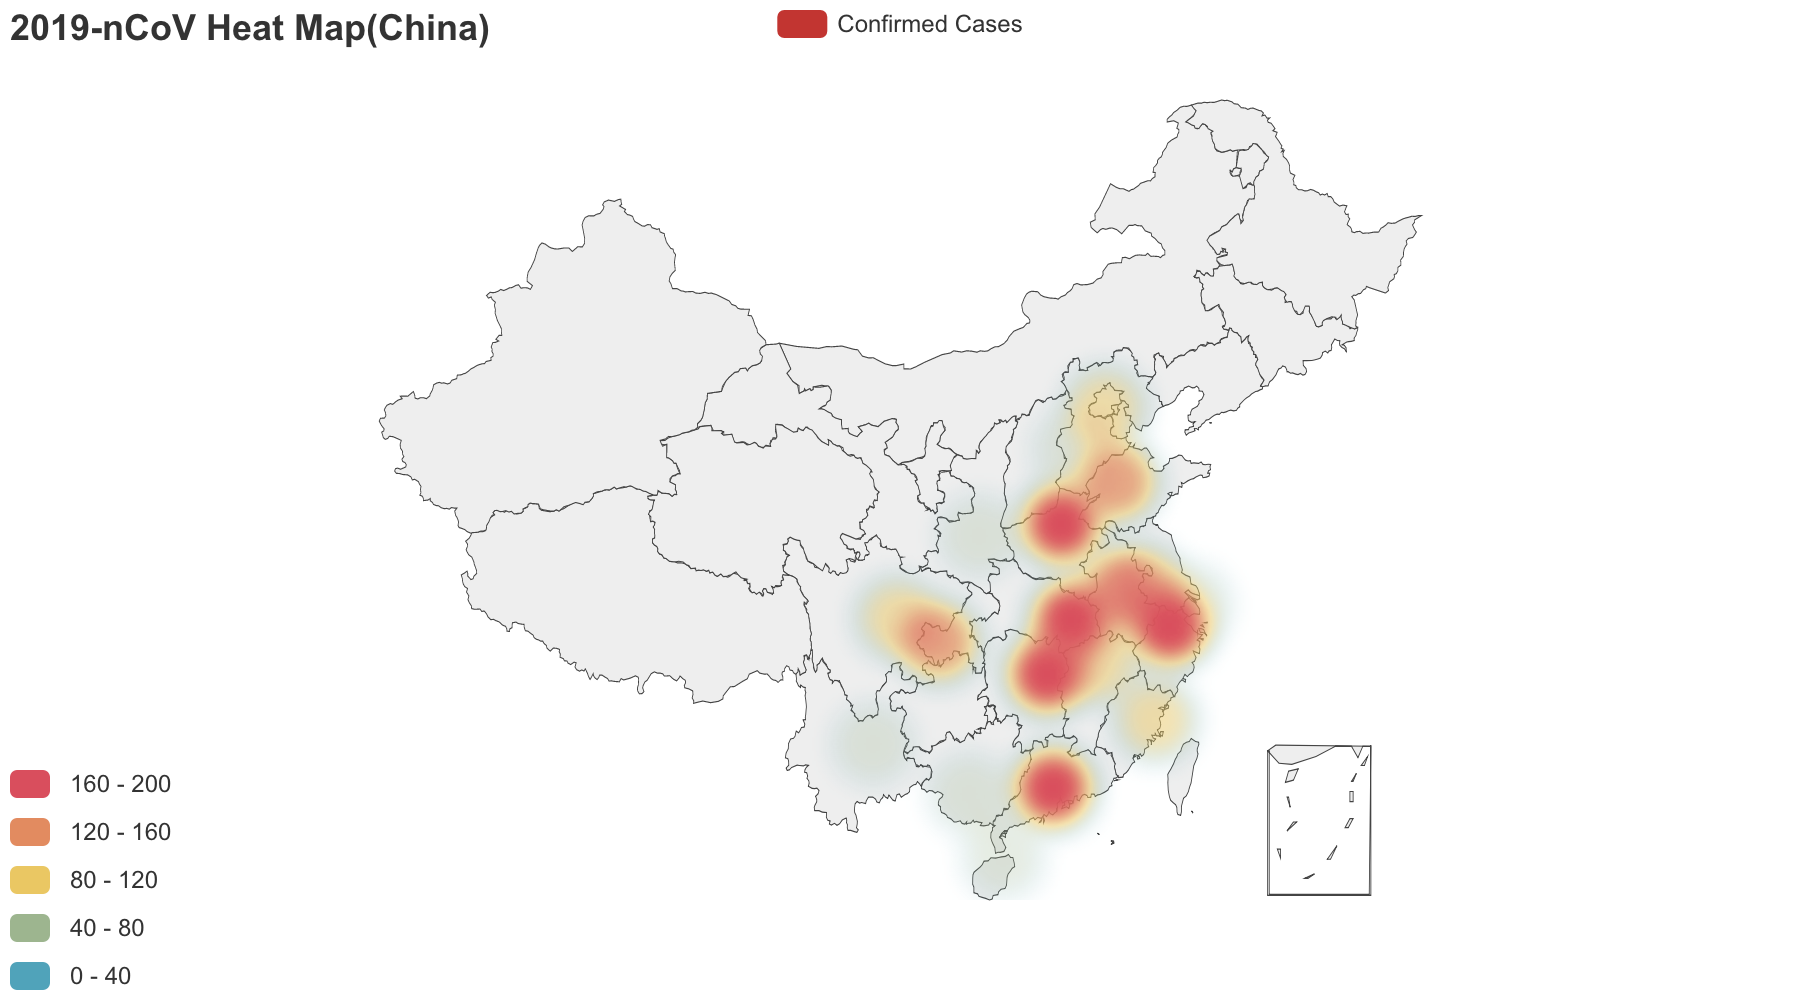
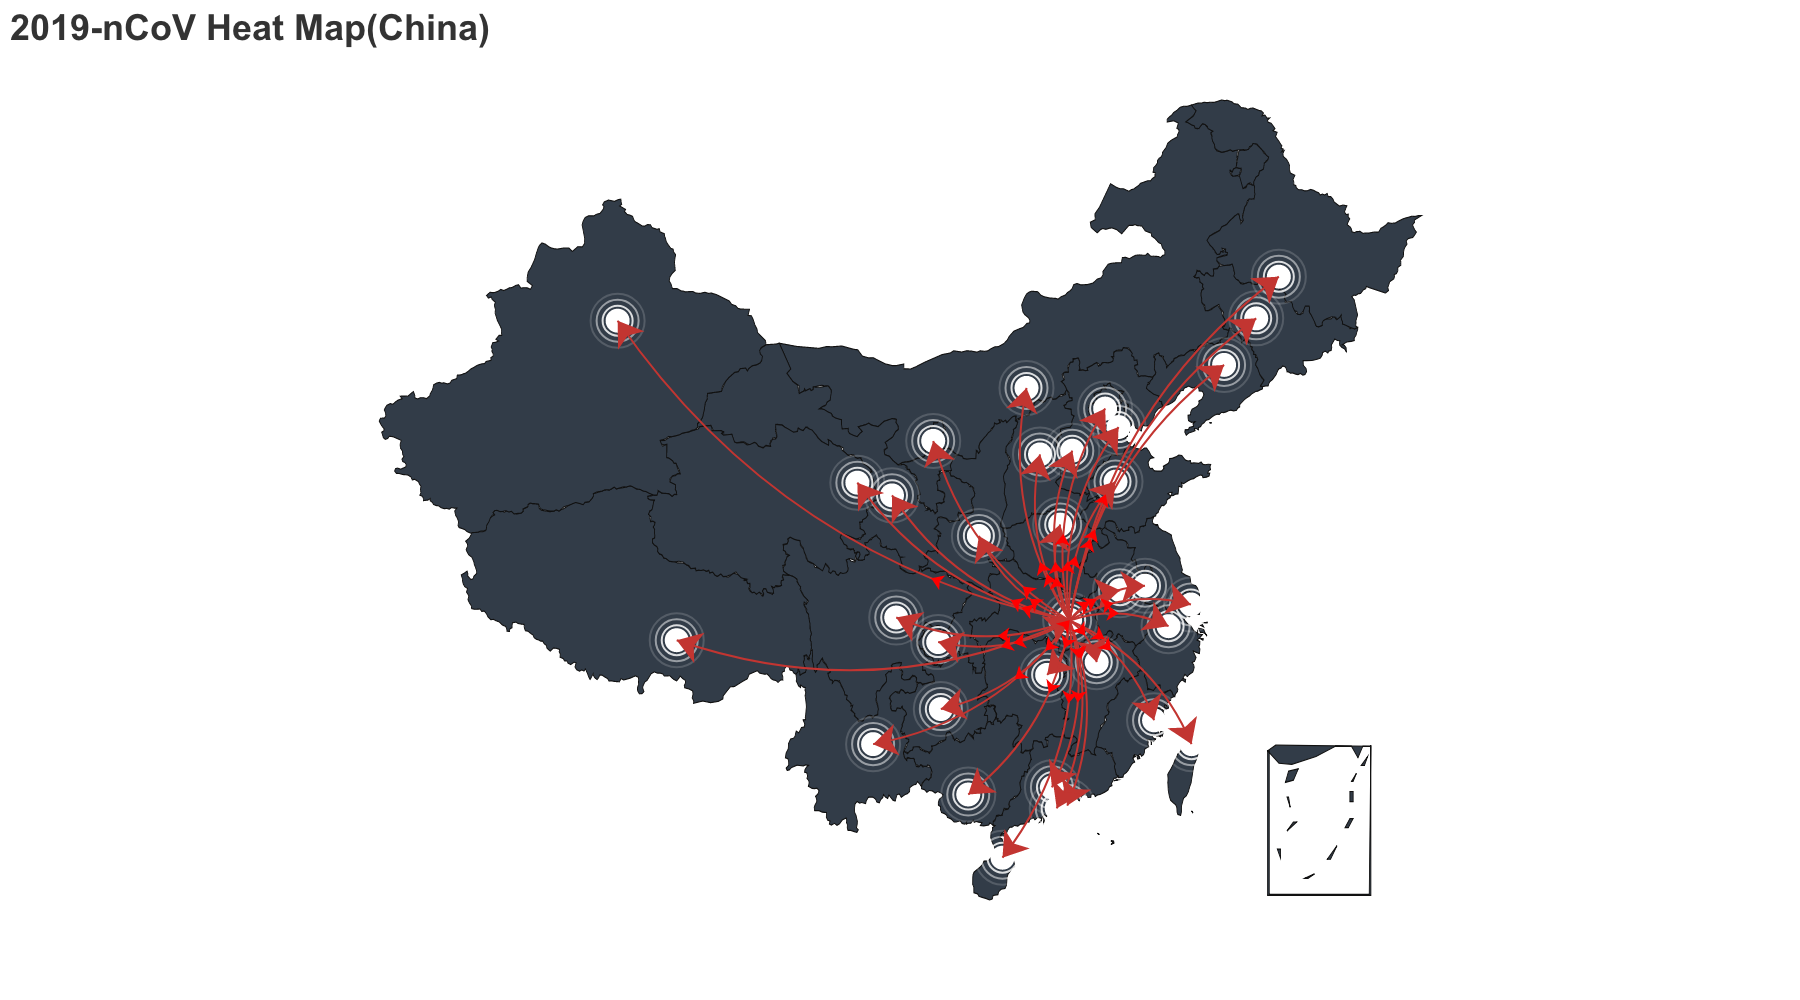
tracemap added

Changed region(s): [[0.1867, 0.093, 0.8089, 0.899], [0.0, 0.744, 0.0933, 0.992], [0.4356, 0.0, 0.56, 0.062]]

diff --git a/render.html b/render.html
@@ -8,11 +8,11 @@
 
 </head>
 <body>
-    <div id="eb7fe983b8ca493293a2baa818885754" class="chart-container" style="width:900px; height:500px;"></div>
+    <div id="e79eda41930445b88e052e75c0e3dd20" class="chart-container" style="width:900px; height:500px;"></div>
     <script>
-        var chart_eb7fe983b8ca493293a2baa818885754 = echarts.init(
-            document.getElementById('eb7fe983b8ca493293a2baa818885754'), 'white', {renderer: 'canvas'});
-        var option_eb7fe983b8ca493293a2baa818885754 = {
+        var chart_e79eda41930445b88e052e75c0e3dd20 = echarts.init(
+            document.getElementById('e79eda41930445b88e052e75c0e3dd20'), 'white', {renderer: 'canvas'});
+        var option_e79eda41930445b88e052e75c0e3dd20 = {
     "animation": true,
     "animationThreshold": 2000,
     "animationDuration": 1000,
@@ -50,7 +50,7 @@
     "series": [
         {
             "type": "map",
-            "name": "Confirmed Cases",
+            "name": "Confirmed Cases by 1.29",
             "label": {
                 "show": false,
                 "position": "top",
@@ -210,10 +210,10 @@
     "legend": [
         {
             "data": [
-                "Confirmed Cases"
+                "Confirmed Cases by 1.29"
             ],
             "selected": {
-                "Confirmed Cases": true
+                "Confirmed Cases by 1.29": true
             },
             "show": true,
             "padding": 5,
@@ -263,7 +263,7 @@
         "borderWidth": 0
     }
 };
-        chart_eb7fe983b8ca493293a2baa818885754.setOption(option_eb7fe983b8ca493293a2baa818885754);
+        chart_e79eda41930445b88e052e75c0e3dd20.setOption(option_e79eda41930445b88e052e75c0e3dd20);
     </script>
 </body>
 </html>

diff --git a/model.py b/model.py
@@ -4,6 +4,7 @@ filename = 'data/data_1_29_list.json'
 with open(filename) as f:
     pop_data = json.load(f)
     allcases = []
+    traces = []
     for value in pop_data:
         area = value['provinceShortName']
         confirm = value['confirmedCount']
@@ -13,6 +14,13 @@ with open(filename) as f:
         allcases.append(case)
         print(area + ": " + str(confirm) + " confirm cases.")
 
+    for value in pop_data:
+        area = value['provinceShortName']
+        if area is not "武汉":
+            case = ["武汉"]
+            case.append(area)
+            traces.append(case)
+
 from snapshot_pyppeteer import snapshot
 from pyecharts.charts import Geo
 from pyecharts.charts import Map
@@ -21,27 +29,38 @@ from pyecharts.render import make_snapshot
 from pyecharts.globals import ChartType, SymbolType
 
 def geo_getmap() -> Geo:
+
     c = (
         Geo()
-        .add_schema(maptype="china")
+        .add_schema(
+            maptype="china",
+            itemstyle_opts=opts.ItemStyleOpts(color="#323c48", border_color="#111"),
+        )
         .add(
-            "Confirmed Cases",
+            "",
             allcases,
-            type_=ChartType.HEATMAP,
+            type_=ChartType.EFFECT_SCATTER,
+            color="white",
+        )
+        .add(
+            "",
+            traces,
+            type_=ChartType.LINES,
+            effect_opts=opts.EffectOpts(
+                symbol=SymbolType.ARROW, symbol_size=6, color="red"
+            ),
+            linestyle_opts=opts.LineStyleOpts(curve=0.2),
         )
         .set_series_opts(label_opts=opts.LabelOpts(is_show=False))
-        .set_global_opts(
-            visualmap_opts=opts.VisualMapOpts(max_=200, is_piecewise=True),
-            title_opts=opts.TitleOpts(title="2019-nCoV Heat Map(China)"),
-        )
+        .set_global_opts(title_opts=opts.TitleOpts(title="2019-nCoV Heat Map(China)"))
     )
-    make_snapshot(snapshot, c.render(), "heatmap.png")
+    make_snapshot(snapshot, c.render(), "tracemap.png")
 
 def map_getmap() -> Map:
     c = (
         Map()
         .add(
-            "Confirmed Cases",
+            "Confirmed Cases by 1.29",
             allcases,
             "china"
             # type_=ChartType.HEATMAP,

diff --git a/README.md b/README.md
@@ -21,7 +21,7 @@ Up to 27 January, since there are over 3000 confirmed 2019 n-CoV cases globally 
 </p>
 
 <p align="center">
-  <img src="https://github.com/graveszhang/2019-nCoV-Prediction-Model/blob/master/heatmap.png" alt="Heat Map"/>
+  <img src="https://github.com/graveszhang/2019-nCoV-Prediction-Model/blob/master/tracemap.png" alt="Trace Map"/>
 </p>
 
 ## Results
